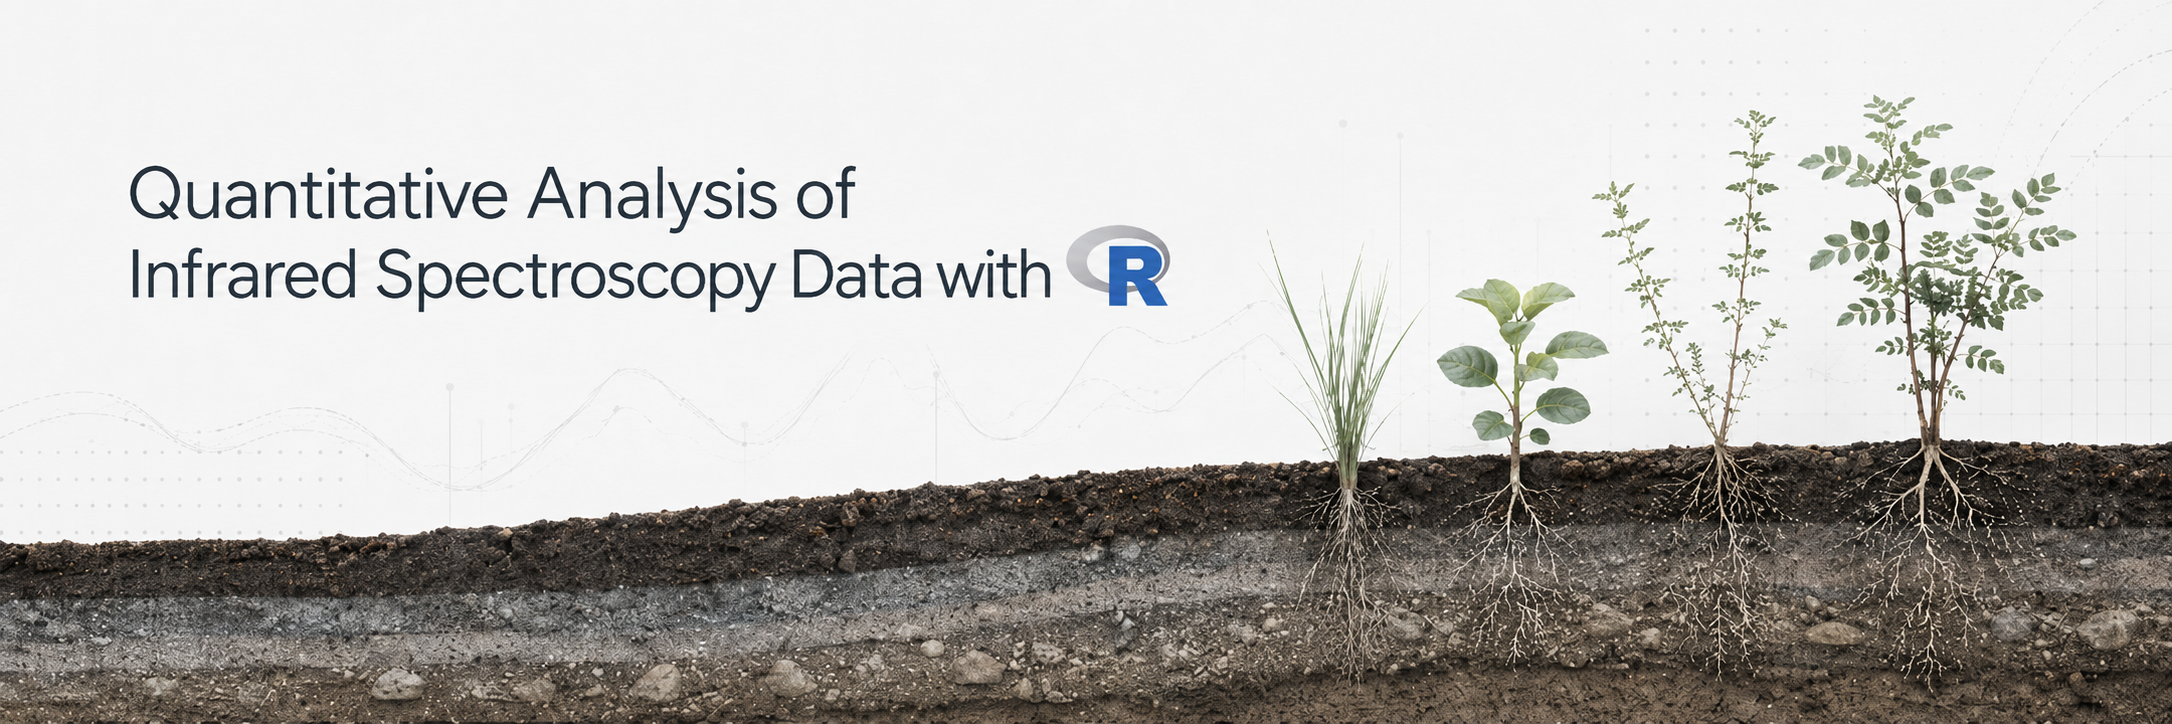
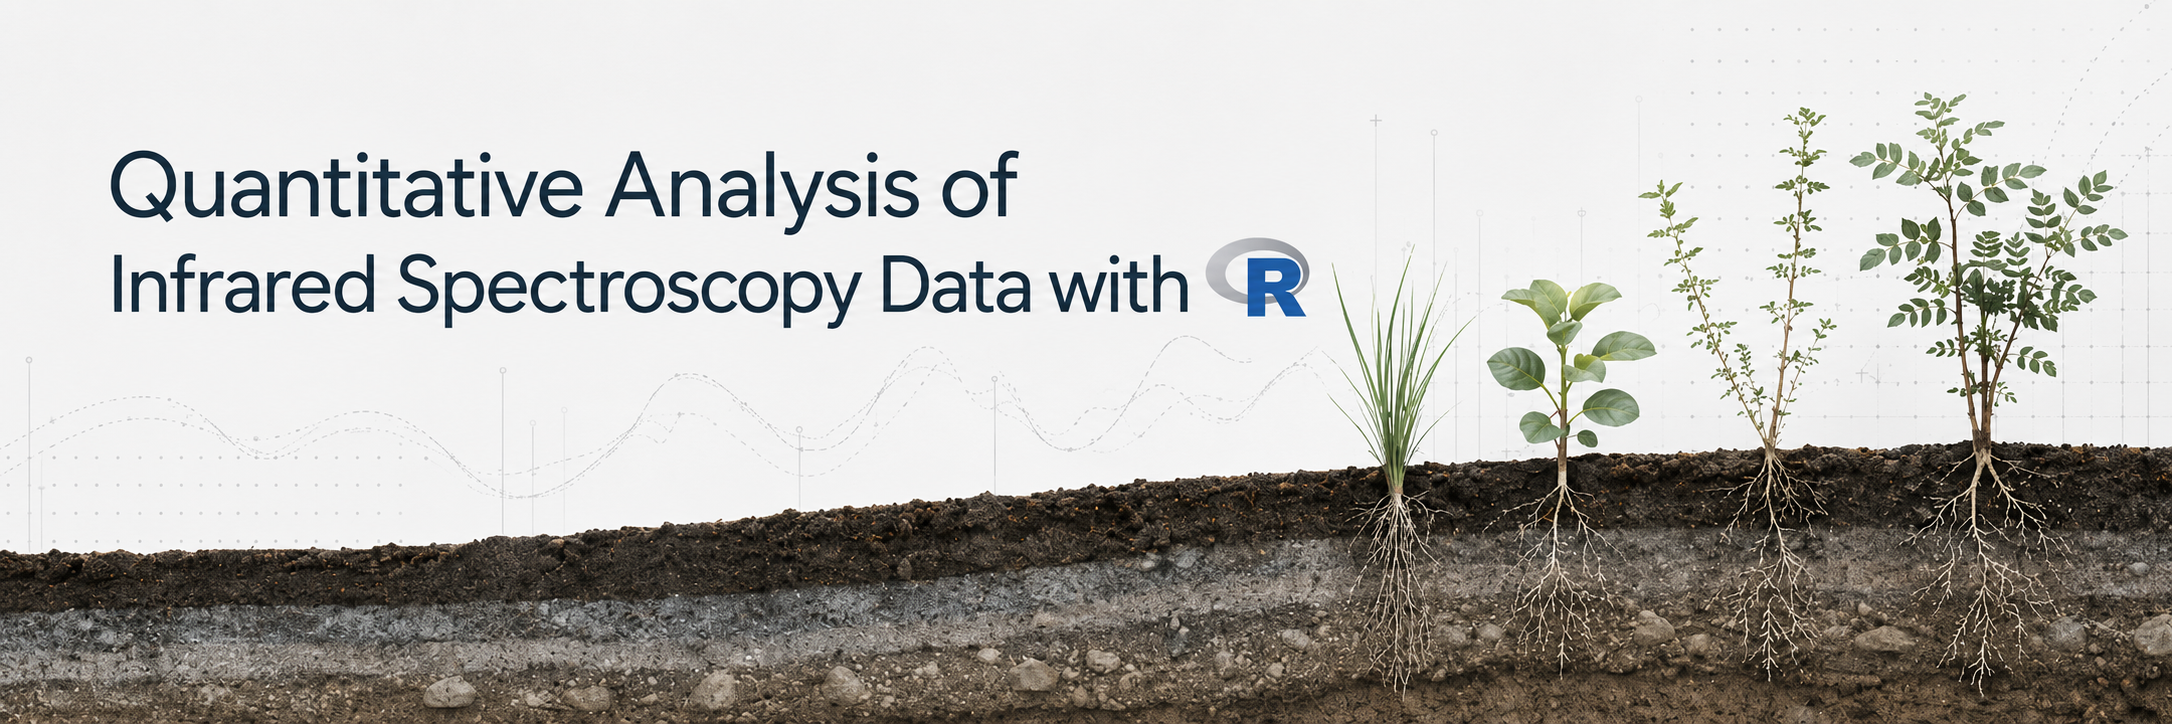
Deploying to gh-pages from @ AlexandreWadoux/AlexandreWadoux.github.io@28cd8be99d0d62471c6499fe4102cc867621b52b 🚀

diff --git a/2021/07/04/diagrams.html b/2021/07/04/diagrams.html
@@ -156,8 +156,8 @@ sequenceDiagram
 </code></pre></div></div>
 
 <div class="jekyll-diagrams diagrams mermaid">
-  <svg id="mermaid-1782954368753" width="100%" xmlns="http://www.w3.org/2000/svg" height="100%" style="max-width:450px;" viewbox="-50 -10 450 231"><style>#mermaid-1782954368753 .label{font-family:trebuchet ms,verdana,arial;color:#333}#mermaid-1782954368753 .node circle,#mermaid-1782954368753 .node ellipse,#mermaid-1782954368753 .node polygon,#mermaid-1782954368753 .node rect{fill:#ececff;stroke:#9370db;stroke-width:1px}#mermaid-1782954368753 .node.clickable{cursor:pointer}#mermaid-1782954368753 .arrowheadPath{fill:#333}#mermaid-1782954368753 .edgePath .path{stroke:#333;stroke-width:1.5px}#mermaid-1782954368753 .edgeLabel{background-color:#e8e8e8}#mermaid-1782954368753 .cluster rect{fill:#ffffde!important;stroke:#aa3!important;stroke-width:1px!important}#mermaid-1782954368753 .cluster text{fill:#333}#mermaid-1782954368753 div.mermaidTooltip{position:absolute;text-align:center;max-width:200px;padding:2px;font-family:trebuchet ms,verdana,arial;font-size:12px;background:#ffffde;border:1px solid #aa3;border-radius:2px;pointer-events:none;z-index:100}#mermaid-1782954368753 .actor{stroke:#ccf;fill:#ececff}#mermaid-1782954368753 text.actor{fill:#000;stroke:none}#mermaid-1782954368753 .actor-line{stroke:grey}#mermaid-1782954368753 .messageLine0{marker-end:"url(#arrowhead)"}#mermaid-1782954368753 .messageLine0,#mermaid-1782954368753 .messageLine1{stroke-width:1.5;stroke-dasharray:"2 2";stroke:#333}#mermaid-1782954368753 #arrowhead{fill:#333}#mermaid-1782954368753 #crosshead path{fill:#333!important;stroke:#333!important}#mermaid-1782954368753 .messageText{fill:#333;stroke:none}#mermaid-1782954368753 .labelBox{stroke:#ccf;fill:#ececff}#mermaid-1782954368753 .labelText,#mermaid-1782954368753 .loopText{fill:#000;stroke:none}#mermaid-1782954368753 .loopLine{stroke-width:2;stroke-dasharray:"2 2";marker-end:"url(#arrowhead)";stroke:#ccf}#mermaid-1782954368753 .note{stroke:#aa3;fill:#fff5ad}#mermaid-1782954368753 .noteText{fill:#000;stroke:none;font-family:trebuchet ms,verdana,arial;font-size:14px}#mermaid-1782954368753 .section{stroke:none;opacity:.2}#mermaid-1782954368753 .section0{fill:rgba(102,102,255,.49)}#mermaid-1782954368753 .section2{fill:#fff400}#mermaid-1782954368753 .section1,#mermaid-1782954368753 .section3{fill:#fff;opacity:.2}#mermaid-1782954368753 .sectionTitle0,#mermaid-1782954368753 .sectionTitle1,#mermaid-1782954368753 .sectionTitle2,#mermaid-1782954368753 .sectionTitle3{fill:#333}#mermaid-1782954368753 .sectionTitle{text-anchor:start;font-size:11px;text-height:14px}#mermaid-1782954368753 .grid .tick{stroke:#d3d3d3;opacity:.3;shape-rendering:crispEdges}#mermaid-1782954368753 .grid path{stroke-width:0}#mermaid-1782954368753 .today{fill:none;stroke:red;stroke-width:2px}#mermaid-1782954368753 .task{stroke-width:2}#mermaid-1782954368753 .taskText{text-anchor:middle;font-size:11px}#mermaid-1782954368753 .taskTextOutsideRight{fill:#000;text-anchor:start;font-size:11px}#mermaid-1782954368753 .taskTextOutsideLeft{fill:#000;text-anchor:end;font-size:11px}#mermaid-1782954368753 .taskText0,#mermaid-1782954368753 .taskText1,#mermaid-1782954368753 .taskText2,#mermaid-1782954368753 .taskText3{fill:#fff}#mermaid-1782954368753 .task0,#mermaid-1782954368753 .task1,#mermaid-1782954368753 .task2,#mermaid-1782954368753 .task3{fill:#8a90dd;stroke:#534fbc}#mermaid-1782954368753 .taskTextOutside0,#mermaid-1782954368753 .taskTextOutside1,#mermaid-1782954368753 .taskTextOutside2,#mermaid-1782954368753 .taskTextOutside3{fill:#000}#mermaid-1782954368753 .active0,#mermaid-1782954368753 .active1,#mermaid-1782954368753 .active2,#mermaid-1782954368753 .active3{fill:#bfc7ff;stroke:#534fbc}#mermaid-1782954368753 .activeText0,#mermaid-1782954368753 .activeText1,#mermaid-1782954368753 .activeText2,#mermaid-1782954368753 .activeText3{fill:#000!important}#mermaid-1782954368753 .done0,#mermaid-1782954368753 .done1,#mermaid-1782954368753 .done2,#mermaid-1782954368753 .done3{stroke:grey;fill:#d3d3d3;stroke-width:2}#mermaid-1782954368753 .doneText0,#mermaid-1782954368753 .doneText1,#mermaid-1782954368753 .doneText2,#mermaid-1782954368753 .doneText3{fill:#000!important}#mermaid-1782954368753 .crit0,#mermaid-1782954368753 .crit1,#mermaid-1782954368753 .crit2,#mermaid-1782954368753 .crit3{stroke:#f88;fill:red;stroke-width:2}#mermaid-1782954368753 .activeCrit0,#mermaid-1782954368753 .activeCrit1,#mermaid-1782954368753 .activeCrit2,#mermaid-1782954368753 .activeCrit3{stroke:#f88;fill:#bfc7ff;stroke-width:2}#mermaid-1782954368753 .doneCrit0,#mermaid-1782954368753 .doneCrit1,#mermaid-1782954368753 .doneCrit2,#mermaid-1782954368753 .doneCrit3{stroke:#f88;fill:#d3d3d3;stroke-width:2;cursor:pointer;shape-rendering:crispEdges}#mermaid-1782954368753 .activeCritText0,#mermaid-1782954368753 .activeCritText1,#mermaid-1782954368753 .activeCritText2,#mermaid-1782954368753 .activeCritText3,#mermaid-1782954368753 .doneCritText0,#mermaid-1782954368753 .doneCritText1,#mermaid-1782954368753 .doneCritText2,#mermaid-1782954368753 .doneCritText3{fill:#000!important}#mermaid-1782954368753 .titleText{text-anchor:middle;font-size:18px;fill:#000}#mermaid-1782954368753 g.classGroup text{fill:#9370db;stroke:none;font-family:trebuchet ms,verdana,arial;font-size:10px}#mermaid-1782954368753 g.classGroup rect{fill:#ececff;stroke:#9370db}#mermaid-1782954368753 g.classGroup line{stroke:#9370db;stroke-width:1}#mermaid-1782954368753 .classLabel .box{stroke:none;stroke-width:0;fill:#ececff;opacity:.5}#mermaid-1782954368753 .classLabel .label{fill:#9370db;font-size:10px}#mermaid-1782954368753 .relation{stroke:#9370db;stroke-width:1;fill:none}#mermaid-1782954368753 #compositionEnd,#mermaid-1782954368753 #compositionStart{fill:#9370db;stroke:#9370db;stroke-width:1}#mermaid-1782954368753 #aggregationEnd,#mermaid-1782954368753 #aggregationStart{fill:#ececff;stroke:#9370db;stroke-width:1}#mermaid-1782954368753 #dependencyEnd,#mermaid-1782954368753 #dependencyStart,#mermaid-1782954368753 #extensionEnd,#mermaid-1782954368753 #extensionStart{fill:#9370db;stroke:#9370db;stroke-width:1}#mermaid-1782954368753 .branch-label,#mermaid-1782954368753 .commit-id,#mermaid-1782954368753 .commit-msg{fill:#d3d3d3;color:#d3d3d3}</style>
-<style>#mermaid-1782954368753 {
+  <svg id="mermaid-1782955157061" width="100%" xmlns="http://www.w3.org/2000/svg" height="100%" style="max-width:450px;" viewbox="-50 -10 450 231"><style>#mermaid-1782955157061 .label{font-family:trebuchet ms,verdana,arial;color:#333}#mermaid-1782955157061 .node circle,#mermaid-1782955157061 .node ellipse,#mermaid-1782955157061 .node polygon,#mermaid-1782955157061 .node rect{fill:#ececff;stroke:#9370db;stroke-width:1px}#mermaid-1782955157061 .node.clickable{cursor:pointer}#mermaid-1782955157061 .arrowheadPath{fill:#333}#mermaid-1782955157061 .edgePath .path{stroke:#333;stroke-width:1.5px}#mermaid-1782955157061 .edgeLabel{background-color:#e8e8e8}#mermaid-1782955157061 .cluster rect{fill:#ffffde!important;stroke:#aa3!important;stroke-width:1px!important}#mermaid-1782955157061 .cluster text{fill:#333}#mermaid-1782955157061 div.mermaidTooltip{position:absolute;text-align:center;max-width:200px;padding:2px;font-family:trebuchet ms,verdana,arial;font-size:12px;background:#ffffde;border:1px solid #aa3;border-radius:2px;pointer-events:none;z-index:100}#mermaid-1782955157061 .actor{stroke:#ccf;fill:#ececff}#mermaid-1782955157061 text.actor{fill:#000;stroke:none}#mermaid-1782955157061 .actor-line{stroke:grey}#mermaid-1782955157061 .messageLine0{marker-end:"url(#arrowhead)"}#mermaid-1782955157061 .messageLine0,#mermaid-1782955157061 .messageLine1{stroke-width:1.5;stroke-dasharray:"2 2";stroke:#333}#mermaid-1782955157061 #arrowhead{fill:#333}#mermaid-1782955157061 #crosshead path{fill:#333!important;stroke:#333!important}#mermaid-1782955157061 .messageText{fill:#333;stroke:none}#mermaid-1782955157061 .labelBox{stroke:#ccf;fill:#ececff}#mermaid-1782955157061 .labelText,#mermaid-1782955157061 .loopText{fill:#000;stroke:none}#mermaid-1782955157061 .loopLine{stroke-width:2;stroke-dasharray:"2 2";marker-end:"url(#arrowhead)";stroke:#ccf}#mermaid-1782955157061 .note{stroke:#aa3;fill:#fff5ad}#mermaid-1782955157061 .noteText{fill:#000;stroke:none;font-family:trebuchet ms,verdana,arial;font-size:14px}#mermaid-1782955157061 .section{stroke:none;opacity:.2}#mermaid-1782955157061 .section0{fill:rgba(102,102,255,.49)}#mermaid-1782955157061 .section2{fill:#fff400}#mermaid-1782955157061 .section1,#mermaid-1782955157061 .section3{fill:#fff;opacity:.2}#mermaid-1782955157061 .sectionTitle0,#mermaid-1782955157061 .sectionTitle1,#mermaid-1782955157061 .sectionTitle2,#mermaid-1782955157061 .sectionTitle3{fill:#333}#mermaid-1782955157061 .sectionTitle{text-anchor:start;font-size:11px;text-height:14px}#mermaid-1782955157061 .grid .tick{stroke:#d3d3d3;opacity:.3;shape-rendering:crispEdges}#mermaid-1782955157061 .grid path{stroke-width:0}#mermaid-1782955157061 .today{fill:none;stroke:red;stroke-width:2px}#mermaid-1782955157061 .task{stroke-width:2}#mermaid-1782955157061 .taskText{text-anchor:middle;font-size:11px}#mermaid-1782955157061 .taskTextOutsideRight{fill:#000;text-anchor:start;font-size:11px}#mermaid-1782955157061 .taskTextOutsideLeft{fill:#000;text-anchor:end;font-size:11px}#mermaid-1782955157061 .taskText0,#mermaid-1782955157061 .taskText1,#mermaid-1782955157061 .taskText2,#mermaid-1782955157061 .taskText3{fill:#fff}#mermaid-1782955157061 .task0,#mermaid-1782955157061 .task1,#mermaid-1782955157061 .task2,#mermaid-1782955157061 .task3{fill:#8a90dd;stroke:#534fbc}#mermaid-1782955157061 .taskTextOutside0,#mermaid-1782955157061 .taskTextOutside1,#mermaid-1782955157061 .taskTextOutside2,#mermaid-1782955157061 .taskTextOutside3{fill:#000}#mermaid-1782955157061 .active0,#mermaid-1782955157061 .active1,#mermaid-1782955157061 .active2,#mermaid-1782955157061 .active3{fill:#bfc7ff;stroke:#534fbc}#mermaid-1782955157061 .activeText0,#mermaid-1782955157061 .activeText1,#mermaid-1782955157061 .activeText2,#mermaid-1782955157061 .activeText3{fill:#000!important}#mermaid-1782955157061 .done0,#mermaid-1782955157061 .done1,#mermaid-1782955157061 .done2,#mermaid-1782955157061 .done3{stroke:grey;fill:#d3d3d3;stroke-width:2}#mermaid-1782955157061 .doneText0,#mermaid-1782955157061 .doneText1,#mermaid-1782955157061 .doneText2,#mermaid-1782955157061 .doneText3{fill:#000!important}#mermaid-1782955157061 .crit0,#mermaid-1782955157061 .crit1,#mermaid-1782955157061 .crit2,#mermaid-1782955157061 .crit3{stroke:#f88;fill:red;stroke-width:2}#mermaid-1782955157061 .activeCrit0,#mermaid-1782955157061 .activeCrit1,#mermaid-1782955157061 .activeCrit2,#mermaid-1782955157061 .activeCrit3{stroke:#f88;fill:#bfc7ff;stroke-width:2}#mermaid-1782955157061 .doneCrit0,#mermaid-1782955157061 .doneCrit1,#mermaid-1782955157061 .doneCrit2,#mermaid-1782955157061 .doneCrit3{stroke:#f88;fill:#d3d3d3;stroke-width:2;cursor:pointer;shape-rendering:crispEdges}#mermaid-1782955157061 .activeCritText0,#mermaid-1782955157061 .activeCritText1,#mermaid-1782955157061 .activeCritText2,#mermaid-1782955157061 .activeCritText3,#mermaid-1782955157061 .doneCritText0,#mermaid-1782955157061 .doneCritText1,#mermaid-1782955157061 .doneCritText2,#mermaid-1782955157061 .doneCritText3{fill:#000!important}#mermaid-1782955157061 .titleText{text-anchor:middle;font-size:18px;fill:#000}#mermaid-1782955157061 g.classGroup text{fill:#9370db;stroke:none;font-family:trebuchet ms,verdana,arial;font-size:10px}#mermaid-1782955157061 g.classGroup rect{fill:#ececff;stroke:#9370db}#mermaid-1782955157061 g.classGroup line{stroke:#9370db;stroke-width:1}#mermaid-1782955157061 .classLabel .box{stroke:none;stroke-width:0;fill:#ececff;opacity:.5}#mermaid-1782955157061 .classLabel .label{fill:#9370db;font-size:10px}#mermaid-1782955157061 .relation{stroke:#9370db;stroke-width:1;fill:none}#mermaid-1782955157061 #compositionEnd,#mermaid-1782955157061 #compositionStart{fill:#9370db;stroke:#9370db;stroke-width:1}#mermaid-1782955157061 #aggregationEnd,#mermaid-1782955157061 #aggregationStart{fill:#ececff;stroke:#9370db;stroke-width:1}#mermaid-1782955157061 #dependencyEnd,#mermaid-1782955157061 #dependencyStart,#mermaid-1782955157061 #extensionEnd,#mermaid-1782955157061 #extensionStart{fill:#9370db;stroke:#9370db;stroke-width:1}#mermaid-1782955157061 .branch-label,#mermaid-1782955157061 .commit-id,#mermaid-1782955157061 .commit-msg{fill:#d3d3d3;color:#d3d3d3}</style>
+<style>#mermaid-1782955157061 {
     color: rgb(0, 0, 0);
     font: normal normal 400 normal 16px / normal "Times New Roman";
   }</style>